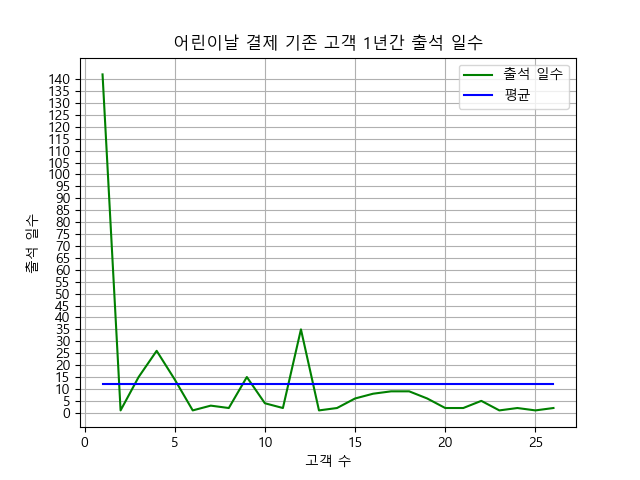
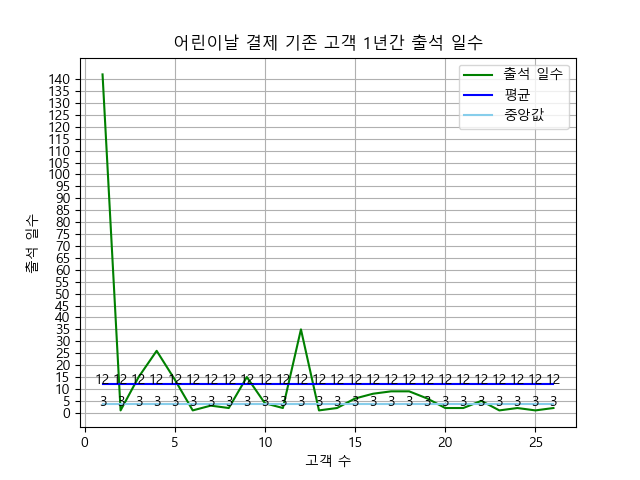
2022-05-16 Update

Changed region(s): [[0.1562, 0.7812, 0.875, 0.8438], [0.7188, 0.2188, 0.875, 0.2812]]

diff --git a/existingCustomerLearningData.py b/existingCustomerLearningData.py
@@ -1,0 +1,52 @@
+import pandas as pd  # 데이터를 저장하고 처리하는 패키지
+import matplotlib.pyplot as plt  # 그래프를 그리는 패키지
+import numpy as np  # 벡터, 행렬 등 수치 연산을 수행하는 선형대수(Linear algebra) 라이브러리
+
+
+# 레이블 값 추가
+def add_value_label(x_list, y_list):
+    for i in range(1, len(x_list) + 1):
+        plt.text(i, y_list[i - 1], y_list[i - 1], ha="center")
+
+
+# 한글 깨짐 방지
+plt.rc('font', family='Malgun Gothic')
+
+# csv 파일 읽어 오기
+df = pd.read_csv('어린이날_결제_기존_고객_1년간_학습_데이터.csv')
+
+# 고객별 학습 개수
+plt.plot(df.rownum, df.learning_data_count, color='green', linestyle='solid', label='학습 개수')
+
+# 학습 개수 평균
+learning_data_count_mean = [df.learning_data_count.mean()] * len(df.rownum)
+plt.plot(df.rownum, learning_data_count_mean, color='blue', linestyle='solid', label='평균')
+
+# 학습 개수 중앙값
+learning_data_count_median = [df.learning_data_count.median()] * len(df.rownum)
+plt.plot(df.rownum, learning_data_count_median, color='skyblue', linestyle='solid', label='중앙값')
+
+# y축 눈금 출력 단위 설정
+plt.yticks(np.arange(0, df.learning_data_count.max(), 50))
+
+# Float to Int
+a = np.array(learning_data_count_mean, dtype=int)
+add_value_label(df.rownum, a)
+a2 = np.array(learning_data_count_median, dtype=int)
+add_value_label(df.rownum, a2)
+
+# 제목
+plt.title("어린이날 결제 기존 고객 1년간 학습 데이터")
+
+# 그리드
+plt.grid(True)
+
+# y축에 레이블 추가하기
+plt.ylabel("학습 개수")
+plt.xlabel("고객 수")
+
+# 범례
+plt.legend(loc=0)
+
+# 그래프 출력
+plt.show()

diff --git a/existingCustomerLearningMode.py b/existingCustomerLearningMode.py
@@ -1,0 +1,45 @@
+import pandas as pd  # 데이터를 저장하고 처리하는 패키지
+import matplotlib.pyplot as plt  # 그래프를 그리는 패키지
+import numpy as np  # 벡터, 행렬 등 수치 연산을 수행하는 선형대수(Linear algebra) 라이브러리
+
+
+# 레이블 값 추가
+def add_value_label(x_list, y_list):
+    for i in range(1, len(x_list) + 1):
+        plt.text(i - 1, y_list[i - 1], y_list[i - 1], ha="center")
+
+
+# 한글 깨짐 방지
+plt.rc('font', family='Malgun Gothic')
+
+# csv 파일 읽어 오기
+df = pd.read_csv('어린이날_결제_기존_고객_1년간_학습_모드.csv')
+
+# 학습 모드 개수
+plt.bar(df.learning_mode, df.learning_mode_count, color='green', linestyle='solid', label='학습 모드별 개수')
+
+# 학습 모드 %
+a = np.array(df.learning_mode_count)
+for i in range(0, len(df.learning_mode)):
+    a[i] = a[i] / sum(df.learning_mode_count) * 100
+add_value_label(df.learning_mode, a)
+plt.plot(df.learning_mode, a, color='skyblue', linestyle='solid', label='학습 모드별 %')
+
+# y축 눈금 출력 단위 설정
+plt.yticks(np.arange(0, df.learning_mode_count.max(), 50))
+
+# add_value_label
+add_value_label(df.learning_mode, df.learning_mode_count)
+
+# 제목
+plt.title("어린이날 결제 기존 고객 1년간 학습 모드별 개수")
+
+# y축에 레이블 추가하기
+plt.ylabel("학습 모드별 개수")
+plt.xlabel("학습 모드")
+
+# 범례
+plt.legend(loc=0)
+
+# 그래프 출력
+plt.show()

diff --git a/existingCustomerAttendance.py b/existingCustomerAttendance.py
@@ -2,6 +2,12 @@ import pandas as pd  # 데이터를 저장하고 처리하는 패키지
 import matplotlib.pyplot as plt  # 그래프를 그리는 패키지
 import numpy as np  # 벡터, 행렬 등 수치 연산을 수행하는 선형대수(Linear algebra) 라이브러리
 
+
+def add_value_label(x_list, y_list):
+    for i in range(1, len(x_list) + 1):
+        plt.text(i, y_list[i - 1], y_list[i - 1], ha="center")
+
+
 # 한글 깨짐 방지
 plt.rc('font', family='Malgun Gothic')
 
@@ -15,8 +21,19 @@ plt.plot(df.rownum, df.attendance_count, color='green', linestyle='solid', label
 attendance_count_mean = [df.attendance_count.mean()] * len(df.rownum)
 plt.plot(df.rownum, attendance_count_mean, color='blue', linestyle='solid', label='평균')
 
+# 출석 중앙값
+attendance_count_median = [df.attendance_count.median()] * len(df.rownum)
+plt.plot(df.rownum, attendance_count_median, color='skyblue', linestyle='solid', label='중앙값')
+
+
 # y축 눈금 출력 단위 설정
 plt.yticks(np.arange(0, df.attendance_count.max(), 5))
+
+# Float to Int
+a = np.array(attendance_count_mean, dtype=int)
+add_value_label(df.rownum, a)
+a2 = np.array(attendance_count_median, dtype=int)
+add_value_label(df.rownum, a2)
 
 # 제목
 plt.title("어린이날 결제 기존 고객 1년간 출석 일수")
